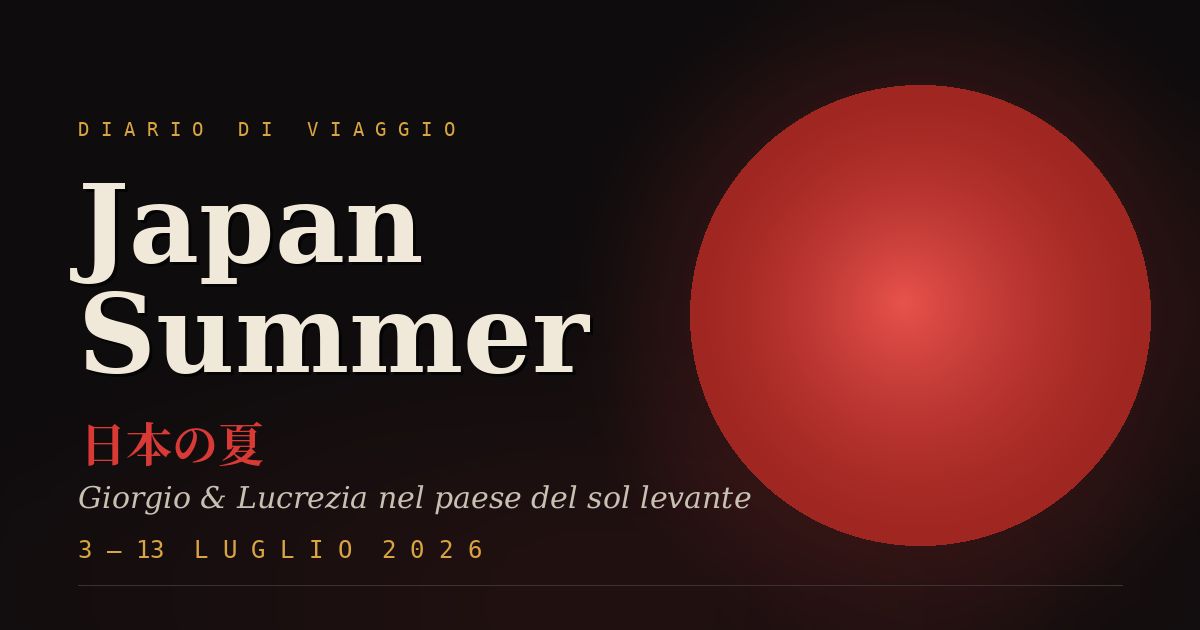
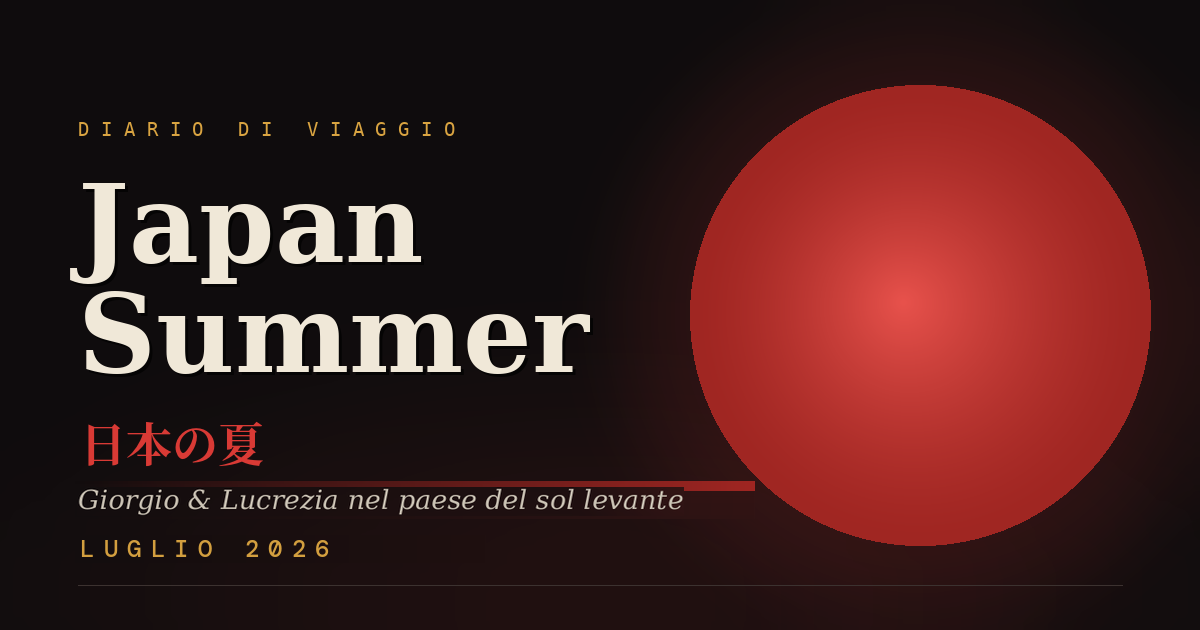
Add files via upload

Changed region(s): [[0.0617, 0.754, 0.6475, 0.8143], [0.0617, 0.8444, 0.3083, 0.9048], [0.3392, 0.8444, 0.4008, 0.9048]]

diff --git a/mondo/giappone2026/index.html b/mondo/giappone2026/index.html
@@ -1102,7 +1102,7 @@
       <p class="hero-kicker">Diario di viaggio</p>
       <h1>Japan<br>Summer</h1>
       <p class="hero-sub">Giorgio &amp; Lucrezia nel paese del sol levante</p>
-      <p class="hero-dates">3 — 13 LUGLIO 2026</p>
+      <p class="hero-dates">LUGLIO 2026</p>
     </div>
     <div class="scroll-hint">Scorri</div>
   </header>
